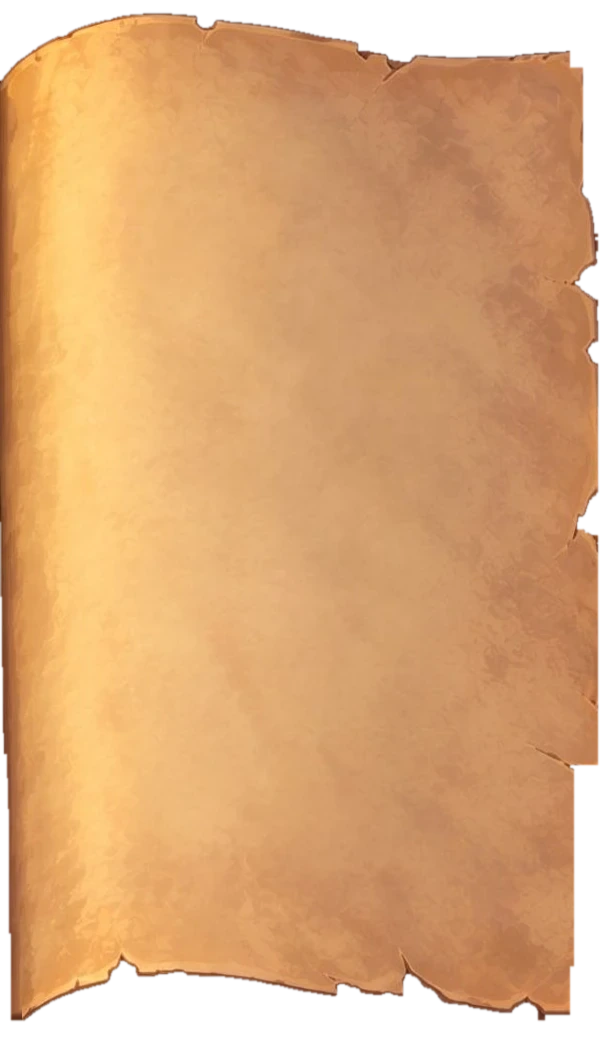
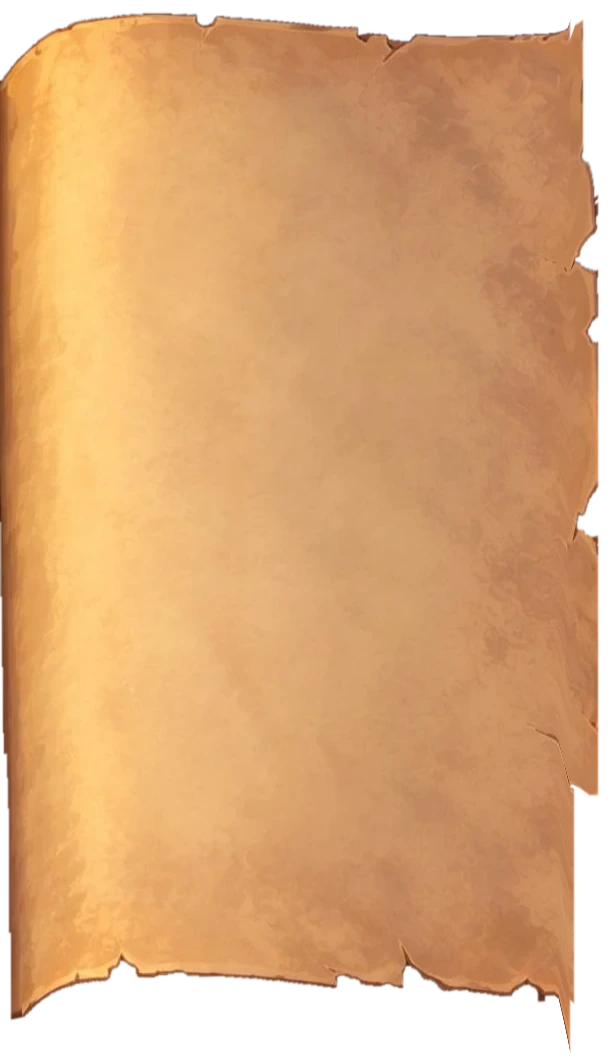
Flatter pages, larger text area, stepped page-block edges with contact shadow, smaller tears, thumb above page
Claude-Session: https://claude.ai/code/session_01RrGCNeavX6aqauv28uFeHb

diff --git a/index.html b/index.html
@@ -41,7 +41,7 @@ html,body{height:100%;background:#0a0604;overflow:hidden;font-family:Lora,Georgi
 /* сгиб у корешка поверх обеих страниц: страницы уходят в переплёт одной тенью, без светлой щели */
 #gut{position:absolute;pointer-events:none;width:30px;
   background:linear-gradient(90deg,rgba(70,32,6,0),rgba(70,32,6,.12) 18%,rgba(62,26,4,.32) 32%,rgba(48,18,2,.62) 42%,rgba(30,10,0,.88) 50%,rgba(48,18,2,.62) 58%,rgba(62,26,4,.32) 68%,rgba(70,32,6,.12) 82%,rgba(70,32,6,0));
-  -webkit-mask-image:linear-gradient(180deg,transparent 0,#000 5%,#000 94%,transparent);mask-image:linear-gradient(180deg,transparent 0,#000 5%,#000 94%,transparent)}
+  -webkit-mask-image:linear-gradient(180deg,transparent 0,#000 14%,#000 94%,transparent);mask-image:linear-gradient(180deg,transparent 0,#000 14%,#000 94%,transparent)}
 
 #candle{position:absolute;left:0;top:0;width:0;height:0;z-index:8}
 #glow{position:absolute;left:-162px;top:-80px;width:420px;height:420px;pointer-events:none;mix-blend-mode:screen;
@@ -137,17 +137,17 @@ body.clean #ctl{display:none}
 /* ---------- геометрия ---------- */
 var Q=1438/540;                            /* пикселей картины сцены на единицу сцены */
 var BX=0, BY=290, BW=540, BH=460;
-var PW=192, PH=330, X0L=66, X0R=284, Y0=40;
+var PW=194, PH=340, X0L=64, X0R=280, Y0=38;
 var LX0=718/Q, LY0=817/Q-BY, LW=610/Q, LHT=1057/Q; /* лист = нарисованная страница, вырезанная из картины */
-var TW=184, TLL=4, TLR=4, TT=4, LH=17.5, PERP=17, FS=12.5;
+var TW=186, TLL=4, TLR=4, TT=4, LH=16.4, PERP=19, FS=11.8;
 /* рельеф страниц, снятый с картины: верхний и нижний край каждой страницы по x (координаты книги) */
 var RELX={L:[52.6,61.6,70.6,79.6,88.6,97.6,106.6,115.7,124.7,133.7,142.7,151.7,160.7,169.7,178.7,187.8,196.8,205.8,214.8,223.8,232.8,241.8,250.8,259.9,268.9],
           R:[269.6,278.6,288.0,297.4,306.8,316.2,325.6,335.0,344.4,353.4,362.8,372.1,381.5,390.9,400.3,409.7,419.1,428.1,437.5,446.9,456.3,465.6,475.0,484.4,493.8]};
-var RELT={L:[43.8,42.8,40.4,40.1,40.1,39.8,39.1,37.9,34.9,32.5,30.8,29.1,27.8,27.0,26.3,24.5,23.3,22.9,23.2,24.7,26.1,28.6,32.8,39.3,42.9],
-          R:[40.5,37.9,32.5,28.4,25.2,23.1,22.5,22.5,23.9,25.4,26.0,27.0,28.7,30.7,32.8,36.3,37.8,38.2,38.2,38.2,38.2,37.5,36.9,40.0,42.2]};
-var RELB={L:[382.3,385.3,388,389,389,389,389,388.5,388.0,386.5,386.7,387.6,387.0,385.4,383.9,382.8,382.2,381.9,381.8,382.1,384.0,388,392,394,396],
-          R:[397.3,395.2,392.7,389.0,385.9,383.0,382.3,382.5,382.8,383.2,384.5,386.2,388.0,389.0,389.4,389.6,389.2,389.0,390.5,391.5,392,392,392,392,392]};
-var MT=17, MB=17;   /* отступ текста от верхнего и нижнего края страницы */
+var RELT={L:[33.3,32.8,31.8,31.5,31.5,31.3,30.9,30.3,28.8,27.6,26.8,26.0,25.3,24.9,24.5,23.6,23.1,22.9,23.1,23.7,24.5,26.0,30.0,37.7,42.9],
+          R:[40.5,36.5,29.7,25.7,23.9,22.8,22.5,22.5,23.2,23.9,24.2,24.7,25.6,26.6,27.6,29.2,30.1,30.3,30.3,30.3,30.3,30.0,29.7,32.8,35.0]};
+var RELB={L:[384.7,385.9,384.1,385.3,385.9,386.6,386.9,386.5,387.2,386.5,386.5,386.9,386.6,385.9,385.1,384.6,384.2,384.1,384.1,384.3,385.3,388.2,390.9,393.2,396.0],
+          R:[397.3,393.9,389.8,386.3,384.5,383.1,382.7,382.8,382.9,383.1,383.8,384.6,385.4,386.0,386.2,386.3,386.1,386.2,385.9,385.7,385.8,385.5,384.8,384.8,384.8]};
+var MT=13, MB=13;   /* отступ текста от верхнего и нижнего края страницы */
 /* края сглажены в плавную дугу (парабола по точкам под текстом), чтобы строки не повторяли каждую неровность */
 var RELF={};
 function fitQ(xs,ys){var n=xs.length,S=[0,0,0,0,0],T=[0,0,0],i,x,m=0;
@@ -229,7 +229,7 @@ function buildLive(h,box){
   uin.style.width=h.W+'px'; uin.style.height=h.H+'px';
   var th=document.createElement('div'); th.style.cssText='position:absolute;left:0;top:0;width:'+h.W+'px;height:'+h.H+'px;transform-origin:'+h.pv[0]+'px '+h.pv[1]+'px';
   th.appendChild(liveImg(h,'assets/hr_thumb.webp')); uin.appendChild(th);
-  uw.appendChild(uin); bookwrap.insertBefore(ufx,glc); h.ufx=ufx; h.uel=uw; h.thumb=th; h.open=-1; poseSet(h,1);
+  uw.appendChild(uin); bookwrap.appendChild(ufx); h.ufx=ufx; h.uel=uw; h.thumb=th; h.open=-1; poseSet(h,1);
 }
 /* o: 0 — щипок сжат, 1 — большой палец отведён */
 function poseSet(h,o){
@@ -318,7 +318,7 @@ function inkCanvas(pg,side,num){
   g.shadowColor='rgba(70,35,8,.22)'; g.shadowBlur=.5;
   var x0=side==='L'?TLL:TLR;
   pg.lines.forEach(function(l,i){
-    var y=TT+i*LH+12.6, x=x0;
+    var y=TT+i*LH+11.9, x=x0;
     l.text.split(/(\s+)/).forEach(function(tok){
       if(!tok) return;
       var w=g.measureText(tok).width;
@@ -355,22 +355,22 @@ var SHEETMAP={};
 function sheetIdOf(p){return p%2?(p-1)/2:p/2-1}
 function genSheet(){
   function notches(n,dmin,dmax,wmin,wmax){var a=[]; for(var i=0;i<n;i++) a.push({c:rnd(.04,.96),d:rnd(dmin,dmax),w:rnd(wmin,wmax),p:pick([.6,1,1.6]),j:rnd(-.3,.3)}); return a}
-  var S={outer:notches(1+(Math.random()*5|0),4,16,.012,.05), top:notches(Math.random()*3|0,2,7,.03,.09), bot:notches(Math.random()*3|0,2,7,.03,.09),
-    ph:[rnd(0,9),rnd(0,9),rnd(0,9)], corner:Math.random()<.22?{top:Math.random()<.5,sx:rnd(14,34),sy:rnd(14,40)}:null,
+  var S={outer:notches(1+(Math.random()*4|0),2,8,.01,.03), top:notches(Math.random()*3|0,1,3.5,.03,.07), bot:notches(Math.random()*3|0,1,3.5,.03,.07),
+    ph:[rnd(0,9),rnd(0,9),rnd(0,9)], corner:Math.random()<.14?{top:Math.random()<.5,sx:rnd(8,17),sy:rnd(8,20)}:null,
     crease:Math.random()<.3?{v:rnd(.15,.85),len:rnd(.18,.45),ang:rnd(-.5,.5),bend:rnd(-.06,.06)}:null,
     stain:Math.random()<.1?{u:rnd(.25,.8),v:rnd(.15,.85),r:rnd(.025,.05),n:6+(Math.random()*4|0),seed:rnd(0,9)}:null,
     rough:1, scal:null, scorch:null, kind:'plain'};
-  if(Math.random()<.2) S.outer.push({c:rnd(.1,.9),d:rnd(18,28),w:rnd(.006,.012),p:.5,j:0});      /* редкий узкий надрыв */
+  if(Math.random()<.2) S.outer.push({c:rnd(.1,.9),d:rnd(8,12),w:rnd(.006,.012),p:.5,j:0});      /* редкий узкий надрыв */
   /* характер края: у части листов он такой, как был (основной), у остальных — свой */
   var r=Math.random(), i;
   if(r<.42) S.kind='plain';
   else if(r<.62){ S.kind='worn';                                   /* истёртый: россыпь мелких сколов */
-    S.rough=rnd(1.3,1.9); for(i=0,r=5+(Math.random()*6|0);i<r;i++) S.outer.push({c:rnd(.04,.96),d:rnd(3,9),w:rnd(.005,.015),p:1,j:rnd(-.3,.3)});
-    for(i=0;i<(Math.random()*4|0);i++) S.bot.push({c:rnd(.1,.9),d:rnd(2,6),w:rnd(.01,.03),p:1,j:0}) }
+    S.rough=rnd(1.1,1.5); for(i=0,r=4+(Math.random()*5|0);i<r;i++) S.outer.push({c:rnd(.04,.96),d:rnd(1.5,4.5),w:rnd(.005,.015),p:1,j:rnd(-.3,.3)});
+    for(i=0;i<(Math.random()*4|0);i++) S.bot.push({c:rnd(.1,.9),d:rnd(1,3),w:rnd(.01,.03),p:1,j:0}) }
   else if(r<.78){ S.kind='torn';                                   /* оторванный: один крупный неровный разрыв по краю */
-    S.outer.push({c:rnd(.15,.85),d:rnd(20,32),w:rnd(.05,.11),p:rnd(.4,.8),j:rnd(.25,.55)}); S.rough=rnd(1,1.4) }
+    S.outer.push({c:rnd(.15,.85),d:rnd(9,14),w:rnd(.04,.07),p:rnd(.5,.9),j:rnd(.2,.4)}); S.rough=rnd(1,1.2) }
   else if(r<.9){ S.kind='scallop';                                 /* волнистый: край с плавными скруглёнными зубцами */
-    S.scal={n:rnd(5,11),a:rnd(2.5,5.5),ph:rnd(0,6.28)}; S.rough=rnd(.5,.9); S.outer=notches(Math.random()*2|0,3,9,.02,.05) }
+    S.scal={n:rnd(5,11),a:rnd(1.2,2.8),ph:rnd(0,6.28)}; S.rough=rnd(.5,.9); S.outer=notches(Math.random()*2|0,3,9,.02,.05) }
   else { S.kind='smooth'; S.rough=rnd(.3,.5); S.outer=notches(1,3,8,.02,.05); S.top=[]; S.bot=[] }   /* ровный, почти чистый край */
   /* редко: небольшой подпалённый участок кромки (не весь лист) */
   if(Math.random()<.08) S.scorch={edge:Math.random()<.65?'outer':'bot',c:rnd(.2,.8),len:rnd(.12,.26)};
@@ -458,8 +458,16 @@ function pageTex(pg,side,num){
   lg.globalCompositeOperation='destination-in'; lg.drawImage(sheetMask(sh,side),0,0); lg.globalCompositeOperation='source-over';
   /* на столе: под листом следующая страница (чуть сдвинута и темнее), верхний лист бросает на неё мягкую тень */
   var c=document.createElement('canvas'); c.width=W; c.height=H; var g=c.getContext('2d');
-  g.drawImage(art,sg*2,2); g.globalCompositeOperation='source-atop'; g.fillStyle='rgba(58,26,5,.4)'; g.fillRect(0,0,W,H); g.globalCompositeOperation='source-over';
-  g.save(); g.shadowColor='rgba(40,18,4,.22)'; g.shadowBlur=4; g.shadowOffsetX=sg*.8; g.shadowOffsetY=.8; g.drawImage(lf,0,0); g.restore();
+  /* под листом лежат торцы следующих листов: три ступеньки, каждая чуть ниже и темнее, у корешка почти не сдвинуты */
+  var tc=document.createElement('canvas'); tc.width=W; tc.height=H; var tg=tc.getContext('2d');
+  [[3,.52],[2,.42],[1,.30]].forEach(function(st){
+    tg.globalCompositeOperation='source-over'; tg.clearRect(0,0,W,H); tg.drawImage(art,0,0); tg.globalCompositeOperation='source-atop';
+    tg.fillStyle='rgba(52,24,4,'+st[1]+')'; tg.fillRect(0,0,W,H);
+    g.drawImage(tc,sg*st[0]*1.3,st[0]*2.4);
+    });
+  g.save(); g.shadowColor='rgba(25,10,2,.5)'; g.shadowBlur=3; g.shadowOffsetX=sg*.7; g.shadowOffsetY=1.6; g.drawImage(lf,0,0); g.restore();
+  g.save(); g.shadowColor='rgba(25,10,2,.22)'; g.shadowBlur=11; g.shadowOffsetX=sg*1.5; g.shadowOffsetY=4; g.drawImage(lf,0,0); g.restore();
+  g.drawImage(lf,0,0);
   g.globalCompositeOperation='destination-in'; g.drawImage(art,0,0);
   pg._t={cv:c,leaf:lf,side:side};
   return c;
@@ -503,7 +511,7 @@ function renderSpread(i){
   setTimeout(function(){prep(i)},400);
 }
 
-(function(){var e=document.getElementById('gut'); e.style.left=(LX0-15)+'px'; e.style.top=(LY0+70/Q)+'px'; e.style.height=(960/Q)+'px'})();
+(function(){var e=document.getElementById('gut'); e.style.left=(LX0-15)+'px'; e.style.top=(LY0+130/Q)+'px'; e.style.height=(880/Q)+'px'})();
 function spreadsCount(){return Math.max(1,Math.ceil(S.pages.length/2))}
 /* толщина книги: блок страниц слева растёт, справа тает по мере чтения; полоски страниц вырезаны из самой картины */
 /* ---------- блок страниц кодом ----------
@@ -516,32 +524,26 @@ var STK=(function(){
   c.style.cssText='position:absolute;z-index:5;pointer-events:none;left:0;top:'+(Y0p/Q)+'px;width:'+(Wp/Q)+'px;height:'+(Hp/Q)+'px';
   stage.insertBefore(c,bookwrap);
   function hs(a,b){var v=Math.sin(a*127.1+b*311.7+SALT)*43758.5453; return v-Math.floor(v)}
-  /* силуэт блока: выпуклая оболочка нарисованной страницы со скруглёнными углами. Зубцы, надрывы и острые выступы
-     картинки в неё не попадают, поэтому листы стопки лежат ровным блоком и не повторяют край верхней страницы */
+  /* силуэт блока: край страницы, сглаженный медианой и скользящим средним. Острые хвосты, зубцы и надрывы картинки
+     в него не попадают, а вогнутые участки не заливаются (выпуклая оболочка давала под страницей плоский «парящий» клин) */
+  function med(a,w){var n=a.length,o=new Float32Array(n),i,j,t; for(i=0;i<n;i++){t=[]; for(j=Math.max(0,i-w);j<=Math.min(n-1,i+w);j++) if(a[j]>=0) t.push(a[j]); t.sort(function(p,q){return p-q}); o[i]=t.length?t[t.length>>1]:-1} return o}
+  function avg(a,w){var n=a.length,o=new Float32Array(n),i,j,s,k; for(i=0;i<n;i++){s=0;k=0; for(j=Math.max(0,i-w);j<=Math.min(n-1,i+w);j++) if(a[j]>=0){s+=a[j];k++} o[i]=k?s/k:-1} return o}
   function build(sd){
-    var E=edgesOf(sd), W=E.W, H=E.H, pts=[], i, x, y, sg=sd==='R'?1:-1, spx=sd==='R'?0:W;
-    for(y=0;y<H;y+=4) if(E.xo[y]>=0) pts.push([E.xo[y],y]);
-    for(x=0;x<W;x+=4){ if(E.yt[x]>=0) pts.push([x,E.yt[x]]); if(E.yb[x]>=0) pts.push([x,E.yb[x]]) }
-    var yt0=E.yt[sd==='R'?2:W-3], yb0=E.yb[sd==='R'?2:W-3]; pts.push([spx,yt0],[spx,yb0]);
-    pts.sort(function(p,q){return p[0]-q[0]||p[1]-q[1]});
-    function cr(o,a,b){return (a[0]-o[0])*(b[1]-o[1])-(a[1]-o[1])*(b[0]-o[0])}
-    var lo=[], up=[];
-    pts.forEach(function(p){while(lo.length>=2&&cr(lo[lo.length-2],lo[lo.length-1],p)<=0) lo.pop(); lo.push(p)});
-    for(i=pts.length-1;i>=0;i--){var p=pts[i]; while(up.length>=2&&cr(up[up.length-2],up[up.length-1],p)<=0) up.pop(); up.push(p)}
-    var hull=lo.slice(0,-1).concat(up.slice(0,-1));
-    /* равномерно по длине и сгладить — скруглённые углы */
-    var per=0, seg=[]; for(i=0;i<hull.length;i++){var A=hull[i], B=hull[(i+1)%hull.length], l=Math.hypot(B[0]-A[0],B[1]-A[1]); seg.push(l); per+=l}
-    var N=Math.round(per/6), rs=[], k=0, acc=0;
-    for(i=0;i<N;i++){var t=i*per/N; while(acc+seg[k]<t){acc+=seg[k]; k=(k+1)%hull.length} var A2=hull[k], B2=hull[(k+1)%hull.length], f=(t-acc)/(seg[k]||1); rs.push([lerp(A2[0],B2[0],f),lerp(A2[1],B2[1],f)])}
-    var sm=[], R=7; for(i=0;i<N;i++){var sx=0, sy=0; for(var j=-R;j<=R;j++){var q=rs[(i+j+N)%N]; sx+=q[0]; sy+=q[1]} sm.push([sx/(2*R+1),sy/(2*R+1)])}
-    /* видимая часть контура — та, что смотрит наружу и вниз: только по ней рисуется линия кромки */
-    var out=sm.map(function(p,i){var A3=sm[(i-1+N)%N], B3=sm[(i+1)%N], tx=B3[0]-A3[0], ty=B3[1]-A3[1], l=Math.hypot(tx,ty)||1, nx=ty/l, ny=-tx/l;
+    var E=edgesOf(sd), W=E.W, H=E.H, sg=sd==='R'?1:-1, spx=sd==='R'?0:W, i, x, y, st=6;
+    function sm(a,w1,w2){return avg(med(a,w1),w2)}
+    var xo=sm(E.xo,40,20), yt=sm(E.yt,34,16), yb=sm(E.yb,34,16), T=[], O=[], B=[];
+    /* у самого корешка кривая страницы идёт круто вниз: берём её как есть, чтобы стопка совпадала со швом */
+    for(i=0;i<W;i+=st){x=sd==='R'?i:W-1-i; if(yt[x]>=0) T.push([x,yt[x]])}
+    for(i=W-1;i>=0;i-=st){x=sd==='R'?i:W-1-i; if(yb[x]>=0) B.push([x,yb[x]])}
+    var ya=T[T.length-1][1], yz=B[0][1];
+    for(y=Math.ceil(ya/st)*st;y<=yz;y+=st) if(xo[y]>=0) O.push([xo[y],y]);
+    var pts=T.concat(O,B), N=pts.length, cx=0, cy=0; pts.forEach(function(p){cx+=p[0]; cy+=p[1]}); cx/=N; cy/=N;
+    var out=pts.map(function(p,i){var A3=pts[(i-1+N)%N], B3=pts[(i+1)%N], tx=B3[0]-A3[0], ty=B3[1]-A3[1], l=Math.hypot(tx,ty)||1, nx=ty/l, ny=-tx/l;
+      if((p[0]-cx)*nx+(p[1]-cy)*ny<0){nx=-nx; ny=-ny}
       return {x:p[0],y:p[1],nx:nx,ny:ny,f:Math.abs(p[0]-spx)/W,t:i/N}});
-    /* нормаль наружу: у выпуклой фигуры по часовой стрелке (y вниз) — проверка по центру */
-    var cx=0, cy=0; out.forEach(function(p){cx+=p.x; cy+=p.y}); cx/=N; cy/=N;
-    var flip=((out[0].x-cx)*out[0].nx+(out[0].y-cy)*out[0].ny)<0?-1:1;
-    out.forEach(function(p){p.nx*=flip; p.ny*=flip; p.vis=(sg*p.nx>.25||p.ny>.3)});
-    return {pts:out,sg:sg,x:sd==='L'?108:718,y:817}
+    out.forEach(function(p){p.vis=(sg*p.nx>.25||p.ny>.3)});
+    var ymin=1e9; out.forEach(function(p){ymin=Math.min(ymin,p.y)});
+    return {pts:out,sg:sg,x:sd==='L'?108:718,y:817,ymin:ymin}
   }
   function prep(){ if(C||!PAGEART.L||!PAGEART.R) return C; C={L:build('L'),R:build('R')}; return C }
   /* лист j лежит на глубине d под верхней страницей: чем глубже, тем дальше наружу и ниже выглядывает его кромка.
@@ -553,8 +555,9 @@ var STK=(function(){
     g.beginPath();
     P.pts.forEach(function(p,i){
       var n=A*Math.sin(p.t*6.283*f1+p1); if(bump){var z=(p.t-bump.c)/.035; n+=bump.a*Math.exp(-z*z)}
-      var w=p.vis?1:0, top=p.ny<-.3?28*Math.min(1,(-p.ny-.3)*3):0,   /* верх блока прячется под страницей, надрывы верхнего края не заливаются */
-          X=P.x+p.x+sg*dx*Math.pow(p.f,.8)+p.nx*n*w, Y=P.y+p.y+dy*(.45+.55*p.f)+p.ny*n*w+top-Y0p;
+      var w=p.vis?1:0, rp=Math.min(1,Math.max(0,(p.y-P.ymin-6)/110)),  top=p.ny<-.05?40*Math.min(1,(-p.ny-.05)*3):0,   /* верх блока прячется под страницей, надрывы верхнего края не заливаются */
+          rp=rp*rp*(3-2*rp);
+      var X=P.x+p.x+sg*dx*rp*Math.pow(p.f,.8)+p.nx*n*w*rp, Y=P.y+p.y+dy*(.45+.55*p.f)+p.ny*n*w+top-Y0p;
       i?g.lineTo(X,Y):g.moveTo(X,Y);
       if(p.vis){ if(!run){run=[]; vis.push(run)} run.push([X,Y]) } else run=null;
     });
@@ -588,6 +591,7 @@ var STK=(function(){
   function gutter(g){
     var Lp=C.L.pts, Rp=C.R.pts, yA=1e9, yB=-1e9;
     Lp.concat(Rp).forEach(function(p){ if(p.f<.03){ yA=Math.min(yA,C.L.y+p.y-Y0p); yB=Math.max(yB,C.L.y+p.y-Y0p) } });
+    yA=Math.max(C.L.y+C.L.pts[0].y,C.R.y+C.R.pts[0].y)-Y0p+12;
     var gr=g.createLinearGradient(SPX-9,0,SPX+9,0); gr.addColorStop(0,'rgba(70,36,12,0)'); gr.addColorStop(.35,'rgba(70,36,12,.85)'); gr.addColorStop(.5,'rgb(46,22,6)'); gr.addColorStop(.65,'rgba(70,36,12,.85)'); gr.addColorStop(1,'rgba(70,36,12,0)');
     g.fillStyle=gr; g.fillRect(SPX-9,yA,18,yB-yA+14);
     g.save(); g.translate(SPX,yB+24); g.scale(1,.4); var rg=g.createRadialGradient(0,0,0,0,0,112); rg.addColorStop(0,'rgba(30,12,3,.96)'); rg.addColorStop(.55,'rgba(34,14,4,.85)'); rg.addColorStop(1,'rgba(34,14,4,0)');
